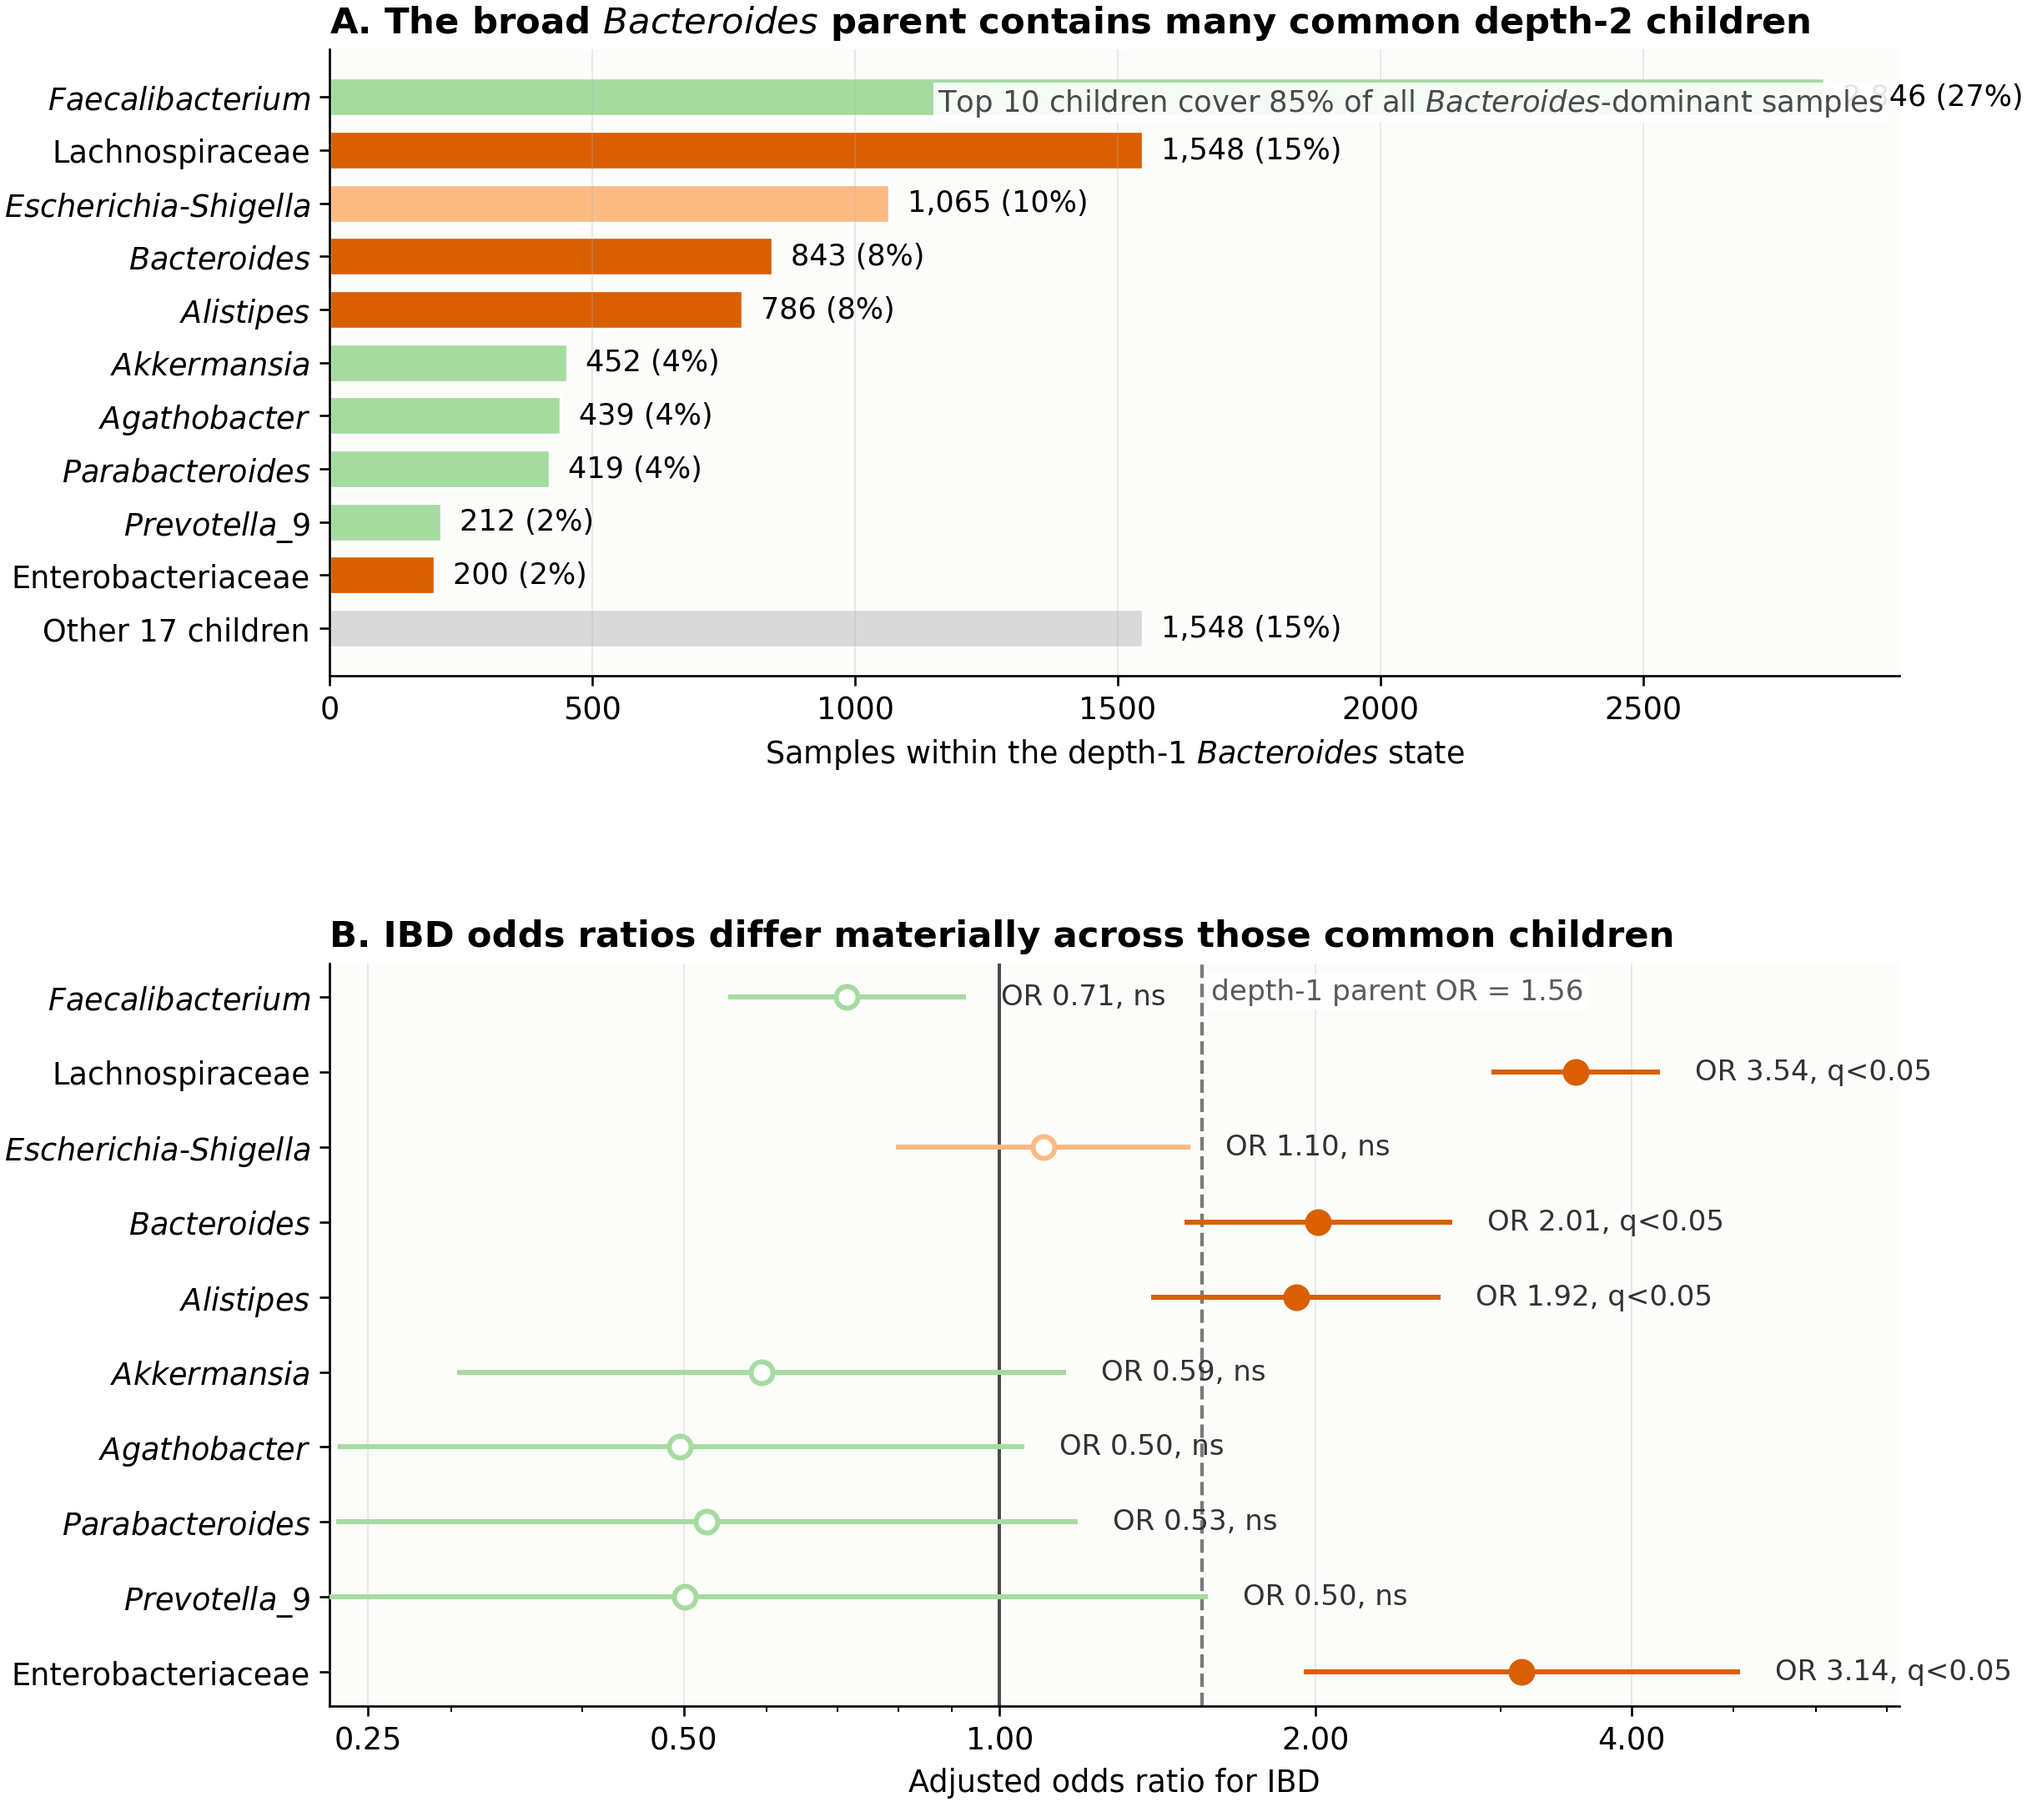
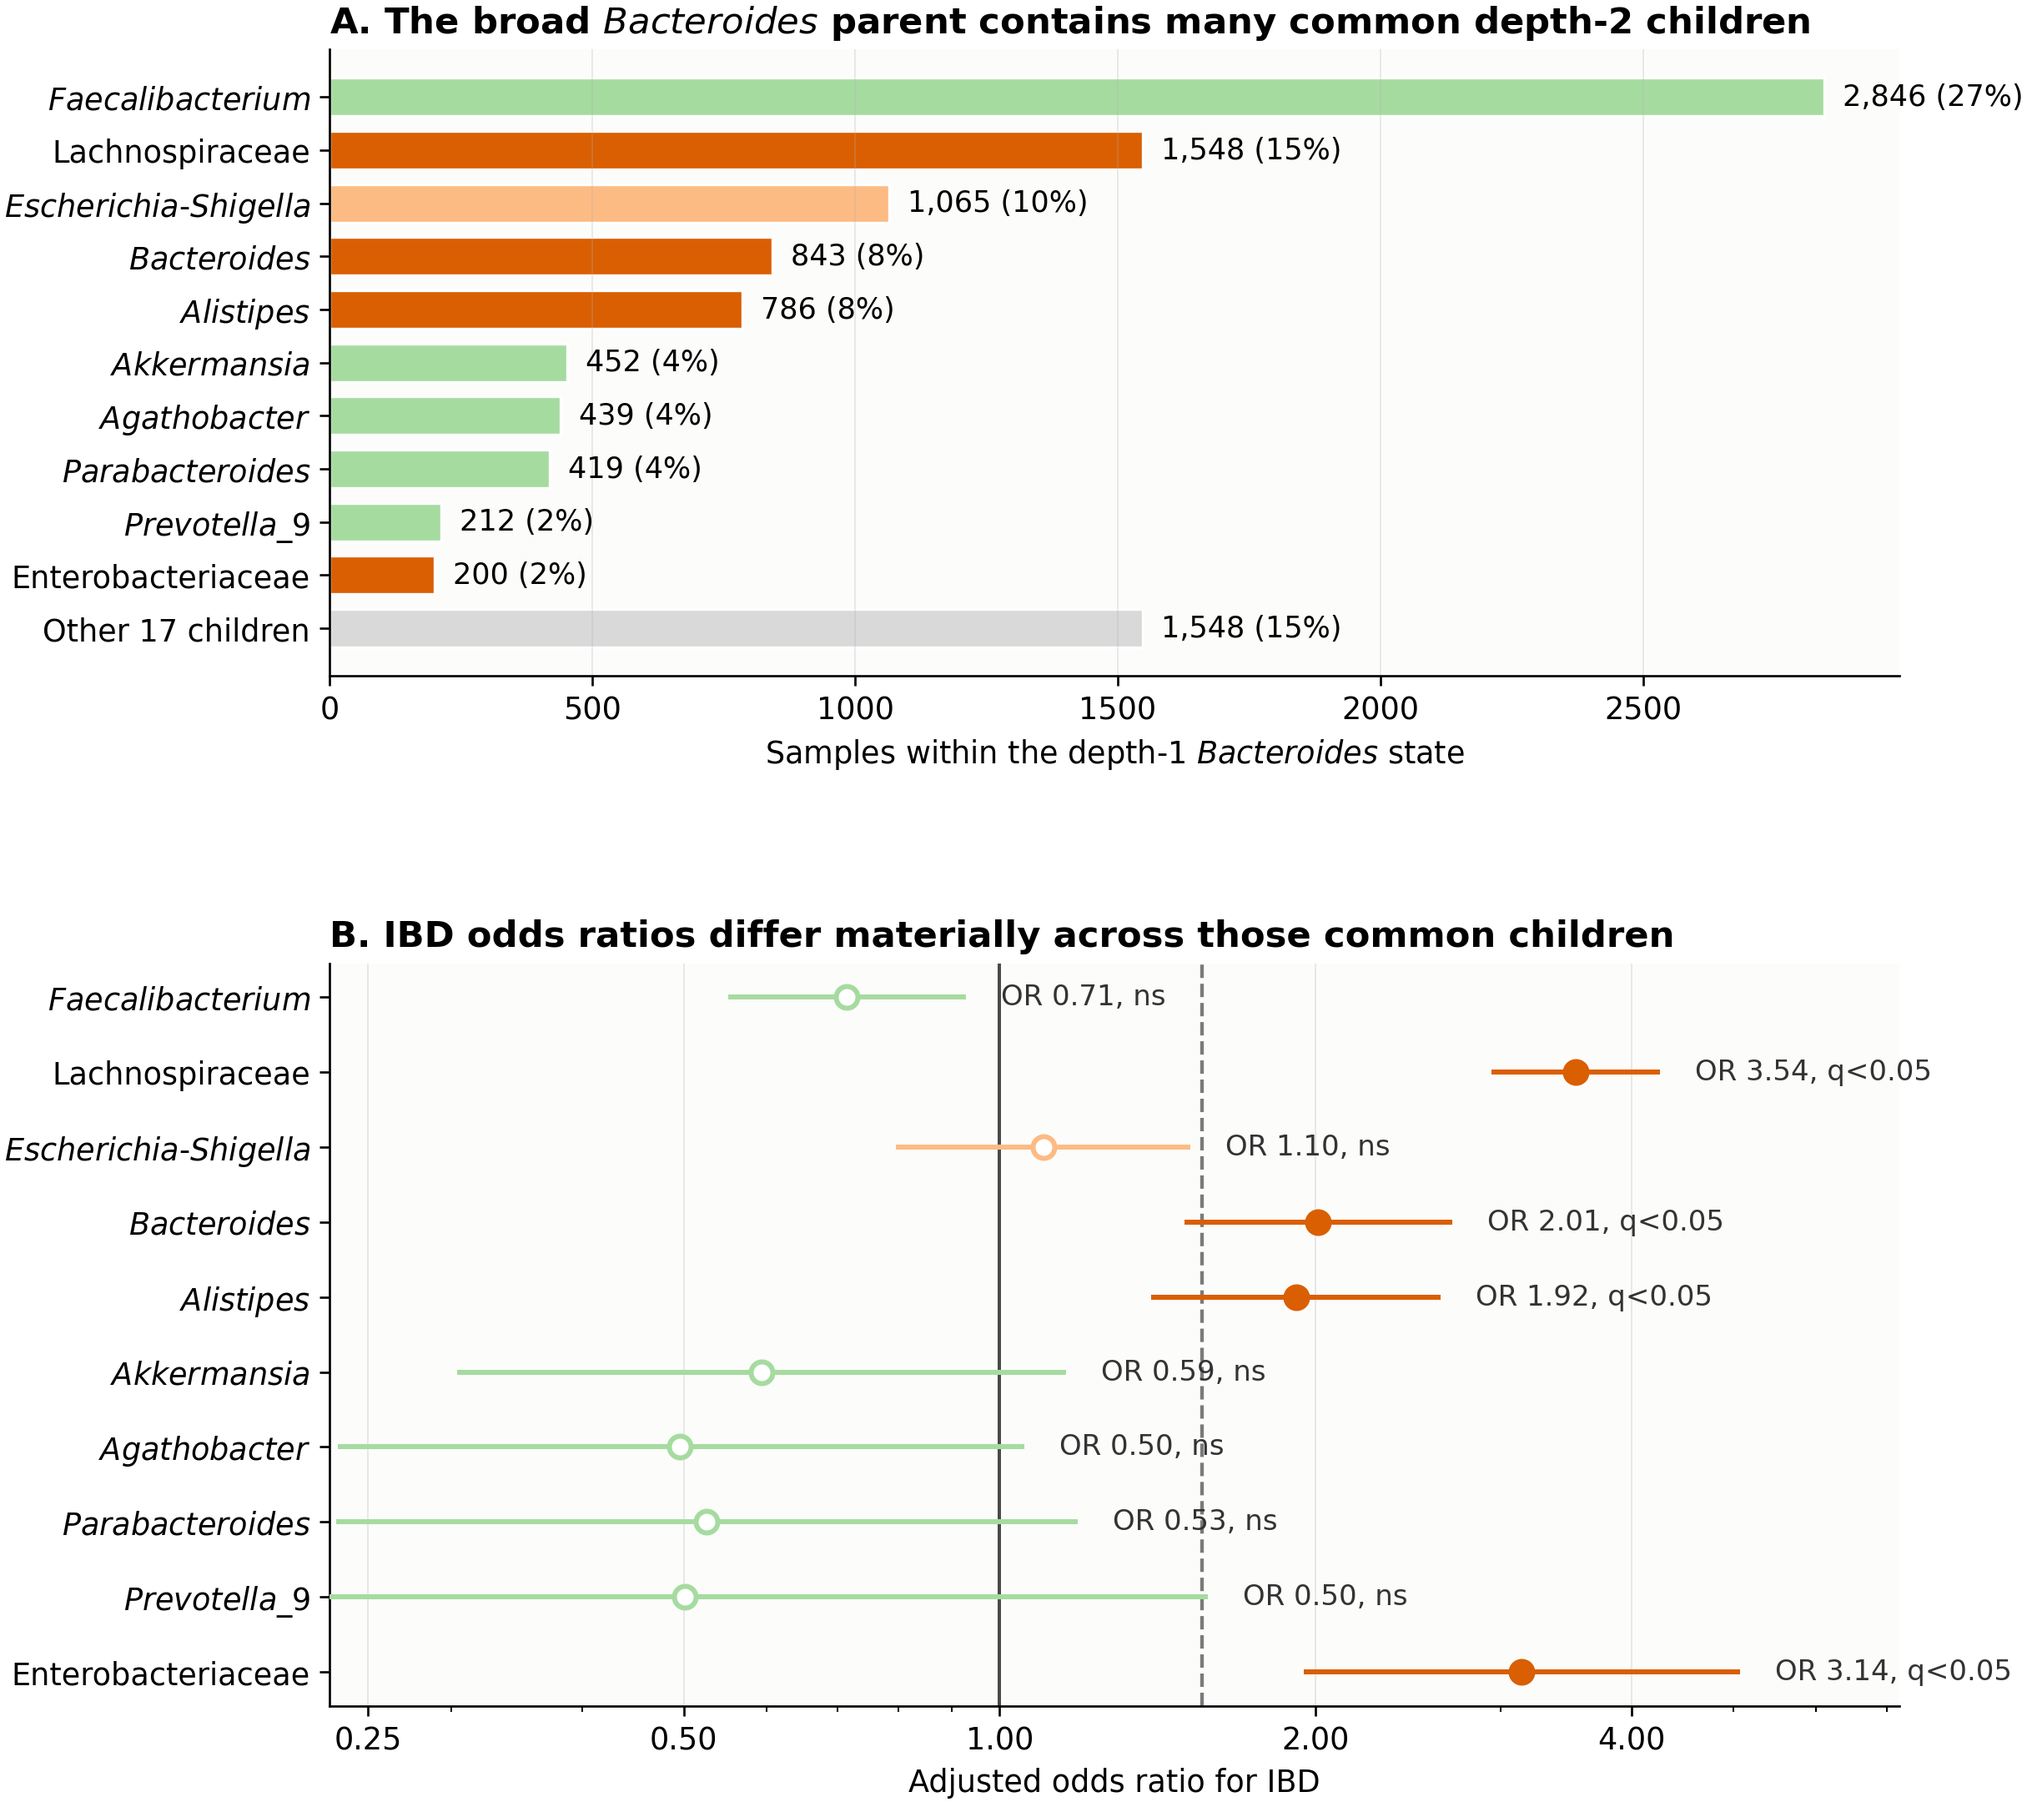
Clean up gut DCST Figure 5 annotations

Changed region(s): [[0.463, 0.031, 0.9259, 0.062], [0.6173, 0.5273, 0.7407, 0.5583]]

diff --git a/papers/gut-dcst/manuscript/gut_application_paper.tex b/papers/gut-dcst/manuscript/gut_application_paper.tex
@@ -523,12 +523,13 @@ rather than as a single ecological state.
 
 \begin{figure}
 \centering
-\includegraphics[width=0.95\linewidth,height=\textheight,keepaspectratio,alt={Depth-2 refinement case study for the broad Bacteroides parent in IBD. Panel A shows the most common depth-2 children inside the parent state. Panel B shows that those common children have materially different adjusted odds ratios, with the dashed line marking the coarser depth-1 parent effect.}]{../assets/figures/FIGURE_6_depth2_refinement_case_study.png}
+\includegraphics[width=0.95\linewidth,height=\textheight,keepaspectratio,alt={Depth-2 refinement case study for the broad Bacteroides parent in IBD. Panel A shows the ten most common depth-2 children inside the parent state, which together cover 85 percent of Bacteroides-dominant samples. Panel B shows that those common children have materially different adjusted odds ratios, with the dashed line marking the coarser depth-1 parent effect at an odds ratio of 1.56.}]{../assets/figures/FIGURE_6_depth2_refinement_case_study.png}
 \caption{Depth-2 refinement case study for the broad \taxon{Bacteroides} parent
-in IBD. Panel A shows the most common depth-2 children inside the parent
-state. Panel B shows that those common children have materially
+in IBD. Panel A shows the ten most common depth-2 children inside the
+parent state; together they cover 85\% of all \taxon{Bacteroides}-dominant
+samples. Panel B shows that those common children have materially
 different adjusted odds ratios, with the dashed line marking the coarser
-depth-1 parent effect.}
+depth-1 parent effect (OR 1.56).}
 \end{figure}
 
 \subsection{Taxonomy concordance: SILVA versus

diff --git a/papers/gut-dcst/scripts/build_depth2_refinement_figure.py b/papers/gut-dcst/scripts/build_depth2_refinement_figure.py
@@ -142,36 +142,11 @@ def build_figure(top: pd.DataFrame, parent_row: pd.Series) -> None:
             ha="left",
             fontsize=10.5,
         )
-    ax1.text(
-        0.99,
-        0.94,
-        italicize_taxa_mpl(
-            f"Top 10 children cover {top['count'].sum()/total_parent:.0%} of all Bacteroides-dominant samples"
-        ),
-        transform=ax1.transAxes,
-        fontsize=10.6,
-        color="#4a4a4a",
-        ha="right",
-        va="top",
-        bbox={"facecolor": "white", "edgecolor": "none", "pad": 1.5, "alpha": 0.9},
-    )
-
     plot_b = top.iloc[::-1].reset_index(drop=True)
     y2 = np.arange(len(plot_b))
     ax2.set_title("B. IBD odds ratios differ materially across those common children", loc="left", fontweight="bold")
     ax2.axvline(1.0, color="#4a4a4a", linewidth=1.2)
     ax2.axvline(parent_row["adj_OR"], color="#7a7a7a", linewidth=1.3, linestyle="--")
-    ax2.text(
-        parent_row["adj_OR"] * 1.02,
-        0.98,
-        italicize_taxa_mpl(f"depth-1 parent OR = {parent_row['adj_OR']:.2f}"),
-        transform=ax2.get_xaxis_transform(),
-        ha="left",
-        va="top",
-        fontsize=10.3,
-        color="#5a5a5a",
-        bbox={"facecolor": "white", "edgecolor": "none", "pad": 1.5, "alpha": 0.9},
-    )
     for yi, (_, row) in zip(y2, plot_b.iterrows()):
         left = row["adj_OR"] - row["adj_CI_lo"]
         right = row["adj_CI_hi"] - row["adj_OR"]
